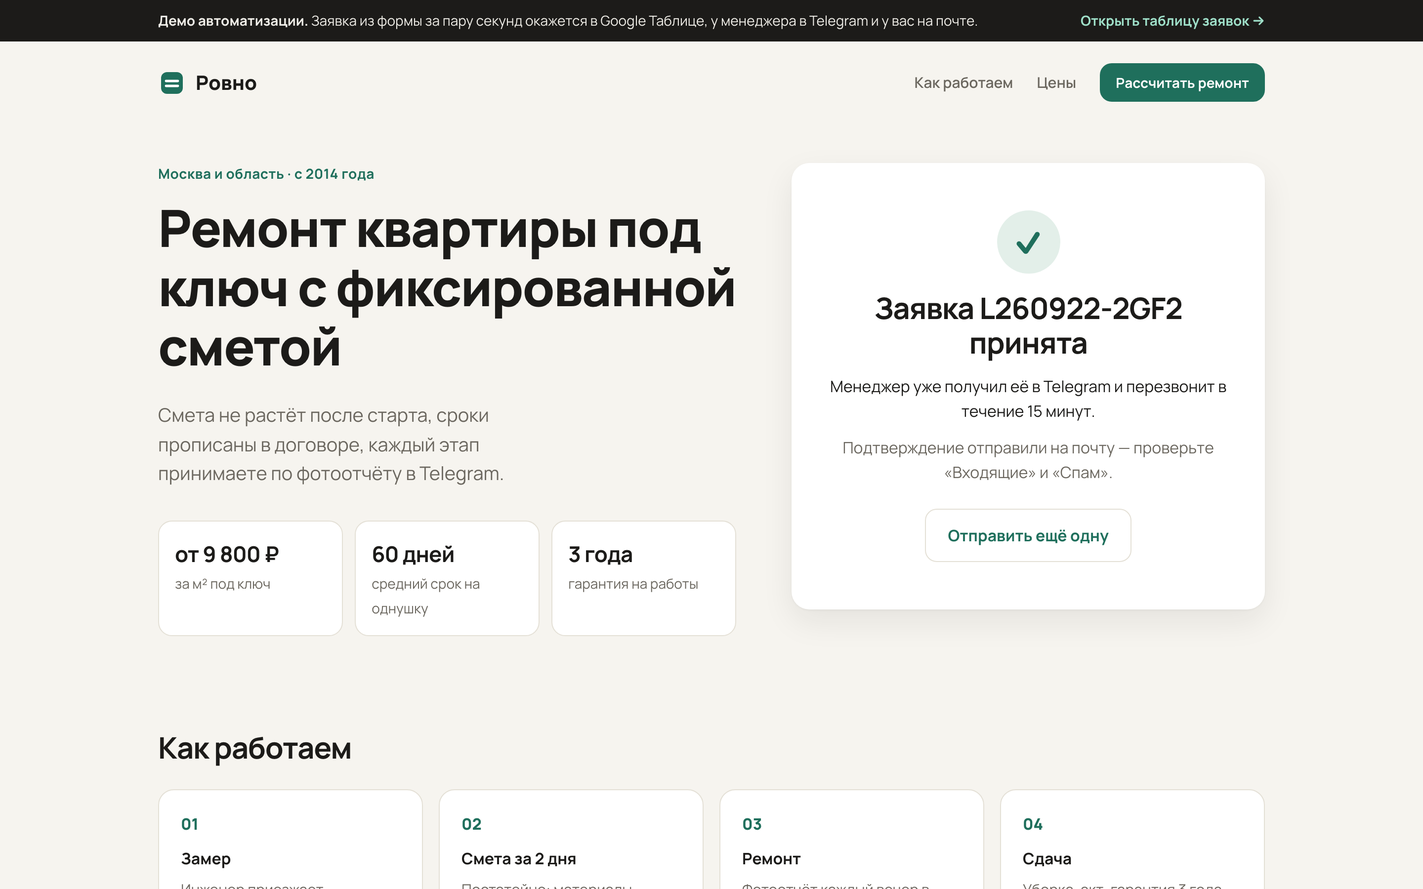
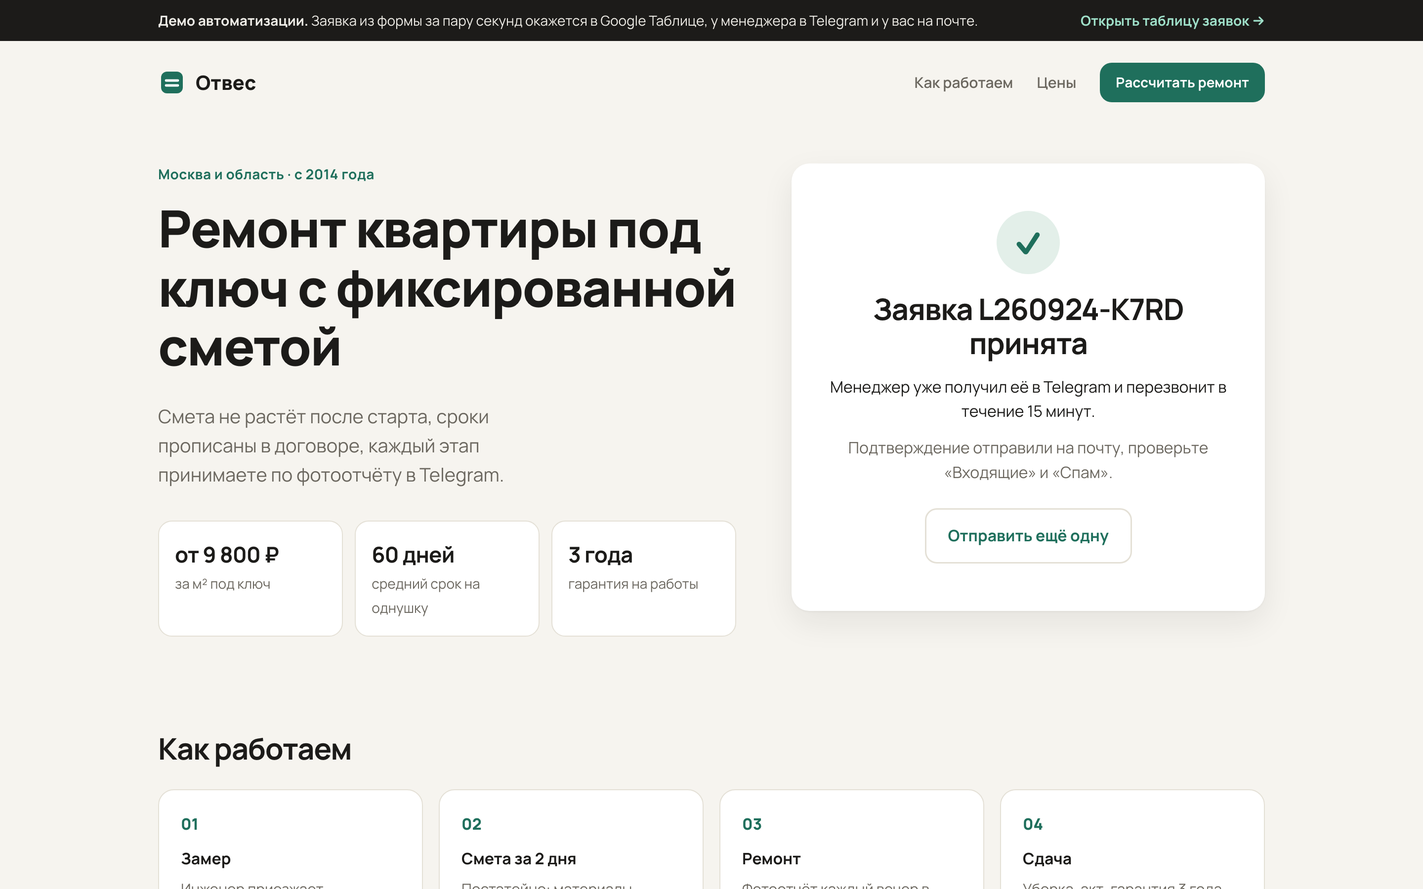
Rename demo brand to Otves, drop long dashes from visitor texts, live site config

diff --git a/n8n/validate-lead.js b/n8n/validate-lead.js
@@ -6,7 +6,7 @@ const req = $('Заявка с сайта').first().json;
 const body = req.body ?? {};
 const headers = req.headers ?? {};
 
-// Принимаем только строки и числа: массив или объект в поле «имя» — это мусор, а не имя.
+// Принимаем только строки и числа: массив или объект в поле «имя» это мусор, а не имя.
 const clean = (v, max) =>
   typeof v === 'string' || typeof v === 'number' ? String(v).replace(/\s+/g, ' ').trim().slice(0, max) : '';
 const esc = (s) => String(s).replace(/[&<>"]/g, (c) => ({ '&': '&amp;', '<': '&lt;', '>': '&gt;', '"': '&quot;' })[c]);
@@ -44,7 +44,7 @@ store.hits.push({ ip, t: now });
 
 const valid = Object.keys(errors).length === 0 && !isBot && !tooMany;
 
-// Автоответ на один адрес — не чаще раза в час, чтобы форму не использовали для рассылки спама.
+// Автоответ на один адрес не чаще раза в час, чтобы форму не использовали для рассылки спама.
 store.mailed = Object.fromEntries(Object.entries(store.mailed ?? {}).filter(([, t]) => now - t < 3600 * 1000));
 const sendEmail = valid && email !== '' && !store.mailed[email];
 if (sendEmail) store.mailed[email] = now;
@@ -52,7 +52,7 @@ if (sendEmail) store.mailed[email] = now;
 const created = DateTime.now().setZone(cfg.timezone || 'Europe/Moscow');
 const id = 'L' + created.toFormat('yyMMdd') + '-' + Math.random().toString(36).slice(2, 6).toUpperCase();
 
-// В демо-режиме таблица публичная, поэтому телефон и почту в ней маскируем. В Telegram — полные данные.
+// В демо-режиме таблица публичная, поэтому телефон и почту в ней маскируем. В Telegram уходят полные данные.
 const maskPhone = (p) => p.replace(/^(\+\d)(\d{3})\d{3}\d{2}(\d{2})$/, '$1 $2 ***-**-$3');
 const maskEmail = (e) => e.replace(/^(.{2})[^@]*(@.*)$/, '$1***$2');
 
@@ -60,7 +60,7 @@ const lines = [
   `🆕 <b>Заявка ${id}</b>`,
   `👤 ${esc(name)}`,
   `📞 ${phone}`,
-  `✉ ${email ? esc(email) : '—'}`,
+  `✉ ${email ? esc(email) : 'не указан'}`,
   `🛠 ${esc(service)}`,
   comment ? `💬 ${esc(comment)}` : null,
   `🔗 ${esc(source)}`,
@@ -70,8 +70,8 @@ const emailHtml = `
 <div style="font-family:Arial,sans-serif;font-size:15px;line-height:1.5;color:#1d1d1f;max-width:520px">
   <p>Здравствуйте, ${esc(name)}!</p>
   <p>Мы получили вашу заявку <b>${id}</b> на «${esc(service)}».
-     Менеджер перезвонит на номер ${phone} в течение 15 минут в рабочее время (пн–сб, 9:00–20:00).</p>
-  <p>Если удобнее переписка — просто ответьте на это письмо.</p>
+     Менеджер перезвонит на номер ${phone} в течение 15 минут в рабочее время (пн-сб, 9:00-20:00).</p>
+  <p>Если удобнее переписка, просто ответьте на это письмо.</p>
   <p style="color:#6e6e73">${esc(cfg.businessName)}</p>
 </div>`;
 
@@ -95,7 +95,7 @@ return [{
       'Статус': 'Новая',
     },
     telegramText: lines.join('\n'),
-    emailSubject: `Заявка ${id} получена — ${cfg.businessName}`,
+    emailSubject: `${cfg.businessName}: заявка ${id} получена`,
     emailHtml,
   },
 }];

diff --git a/site/index.html b/site/index.html
@@ -3,7 +3,7 @@
 <head>
   <meta charset="utf-8">
   <meta name="viewport" content="width=device-width, initial-scale=1">
-  <title>Ровно — ремонт квартир под ключ</title>
+  <title>Отвес · ремонт квартир под ключ</title>
   <meta name="description" content="Демо автоматизации заявок: форма → Google Таблица → Telegram → письмо клиенту.">
   <link rel="preconnect" href="https://fonts.googleapis.com">
   <link rel="preconnect" href="https://fonts.gstatic.com" crossorigin>
@@ -20,9 +20,9 @@
   </div>
 
   <header class="wrap header">
-    <a class="logo" href="#" aria-label="Ровно">
+    <a class="logo" href="#" aria-label="Отвес">
       <svg width="28" height="28" viewBox="0 0 28 28" aria-hidden="true"><rect x="3" y="3" width="22" height="22" rx="6" fill="currentColor"/><path d="M8 17h12M8 12h12" stroke="#fff" stroke-width="2.4" stroke-linecap="round"/></svg>
-      Ровно
+      Отвес
     </a>
     <nav class="nav">
       <a href="#how">Как работаем</a>
@@ -61,7 +61,7 @@
         </label>
 
         <label class="field">
-          <span>Email <em>— пришлём подтверждение</em></span>
+          <span>Email <em>(пришлём подтверждение)</em></span>
           <input name="email" type="email" autocomplete="email" maxlength="120" placeholder="you@example.com">
           <small class="error" data-for="email"></small>
         </label>
@@ -102,7 +102,7 @@
         <div class="success__icon" aria-hidden="true">✓</div>
         <h2>Заявка <span id="lead-id"></span> принята</h2>
         <p>Менеджер уже получил её в Telegram и перезвонит в течение 15 минут.</p>
-        <p class="muted" id="success-email" hidden>Подтверждение отправили на почту — проверьте «Входящие» и «Спам».</p>
+        <p class="muted" id="success-email" hidden>Подтверждение отправили на почту, проверьте «Входящие» и «Спам».</p>
         <button class="btn btn--ghost" type="button" id="again">Отправить ещё одну</button>
       </div>
     </section>
@@ -128,7 +128,7 @@
   </main>
 
   <footer class="wrap footer">
-    <span>© Ровно. Демо-сайт: компания вымышленная, заявки уходят в тестовую таблицу.</span>
+    <span>© Отвес. Демо-сайт: компания вымышленная, заявки уходят в тестовую таблицу.</span>
     <span>n8n · Google Sheets · Telegram Bot API · SMTP</span>
   </footer>
 

diff --git a/site/config.js b/site/config.js
@@ -1,9 +1,9 @@
 // Единственное, что нужно поменять после деплоя n8n.
 window.LEAD_CONFIG = {
   // Production URL вебхука из ноды «Заявка с сайта» (кнопка Webhook URLs → Production)
-  webhookUrl: 'https://n8n.example.com/webhook/lead',
-  // Ссылка на таблицу с доступом «Читатель» — показывается в демо-плашке. Пусто — плашка без ссылки.
-  sheetUrl: '',
+  webhookUrl: 'https://4-165-99-217.sslip.io/webhook/lead',
+  // Ссылка на таблицу с доступом «Читатель», показывается в демо-плашке. Пусто: плашка без ссылки.
+  sheetUrl: 'https://docs.google.com/spreadsheets/d/1bT-UKz4PPYD5rfl6dEeHaZmWrBt4tVGJiNqKQlLW1kk/edit?usp=sharing',
   // Куда звонить, если отправка не удалась
   fallbackPhone: '+7 900 000-00-00',
 };

diff --git a/site/app.js b/site/app.js
@@ -94,7 +94,7 @@
       showErrors({
         form: err.name === 'AbortError'
           ? `Сервер долго не отвечает. Попробуйте ещё раз или позвоните: ${cfg.fallbackPhone}`
-          : `Не получилось отправить — проверьте интернет или позвоните: ${cfg.fallbackPhone}`,
+          : `Не получилось отправить. Проверьте интернет или позвоните: ${cfg.fallbackPhone}`,
       });
     } finally {
       clearTimeout(timer);

diff --git a/BREAK_IT.md b/BREAK_IT.md
@@ -1,26 +1,26 @@
 # Как сломать связку и что при этом будет
 
 Все сценарии прогнаны на n8n 2.40.5. Telegram Bot API и SMTP подменялись локальными заглушками,
-Google отвечал настоящей ошибкой авторизации. Тестовые запросы — `scripts/test-lead.sh`.
+Google отвечал настоящей ошибкой авторизации. Тестовые запросы: `scripts/test-lead.sh`.
 Где смотреть, что произошло: n8n → **Executions**. Там видно каждый запуск, данные на входе
 и выходе каждой ноды и текст ошибки.
 
 | # | Что ломаем | Что происходит | Проверено |
 |---|---|---|---|
-| 1 | **Google Таблица недоступна** (неверный доступ, таблицу удалили, Google лежит) | Нода Sheets не валит workflow (`On Error → Continue`). Сайт получает `200 {ok, id}`, менеджер — заявку в Telegram с шапкой «⚠ Не записалась в таблицу — перенесите вручную». Заявка не теряется | ✅ настоящий `invalid_grant` от Google |
+| 1 | **Google Таблица недоступна** (неверный доступ, таблицу удалили, Google лежит) | Нода Sheets не валит workflow (`On Error → Continue`). Сайт получает `200 {ok, id}`, менеджер получает заявку в Telegram с шапкой «⚠ Не записалась в таблицу, перенесите вручную». Заявка не теряется | ✅ настоящий `invalid_grant` от Google |
 | 2 | **SMTP не отвечает** (сменили пароль, порт закрыт) | 3 попытки с паузой 3 с, потом менеджеру приходит «⚠ Автоответ по заявке … не ушёл на …» с текстом ошибки | ✅ `ECONNREFUSED` |
 | 3 | **Telegram не отвечает** | 3 попытки с паузой 3 с. Если связь вернулась за это время, сообщение доходит. Если нет, запуск падает и срабатывает error-workflow: «🔥 Сбой связки…, нода, ошибка, ссылка на запуск». Заявка к этому моменту уже в таблице | ✅ оба варианта |
 | 4 | **Error-workflow молчит** | В n8n 2.x error-workflow должен быть **опубликован** (Publish), иначе в логе `Workflow … is not active and cannot be executed` | ✅ нашлось при тестах |
 | 5 | **Кривые данные** (имя из 1 буквы, телефон `123`, email без домена, нет согласия) | `422` с ошибками по полям: `{"errors":{"phone":"Проверьте номер телефона",…}}`. Форма подсвечивает поля | ✅ |
 | 6 | **Мусор вместо строк** (`"name": [1,2,{…}]`, пустое тело, не JSON) | Нода проверки принимает только строки и числа, остальное считает пустым. Ответ `422`, ничего не падает | ✅ |
 | 7 | **Бот заполнил скрытое поле** | Фальшивый `200 {ok:true}`: бот думает, что всё прошло. В таблицу и Telegram ничего не попадает | ✅ |
-| 8 | **Флуд с одного IP** | После 5 заявок за 10 минут — `429`, форма показывает «Слишком много заявок подряд» | ✅ |
-| 9 | **Одна и та же почта много раз** | Автоответ — не чаще раза в час на адрес. Заявки при этом принимаются | ✅ при последовательных запросах |
-| 10 | **n8n выключен / сервер упал** | Форма показывает «Не получилось отправить — позвоните: …» с телефоном из `config.js`. `restart: unless-stopped` поднимет контейнеры после перезагрузки VPS | ✅ ошибка сети в браузере |
+| 8 | **Флуд с одного IP** | После 5 заявок за 10 минут ответ `429`, форма показывает «Слишком много заявок подряд» | ✅ |
+| 9 | **Одна и та же почта много раз** | Автоответ не чаще раза в час на адрес. Заявки при этом принимаются | ✅ при последовательных запросах |
+| 10 | **n8n выключен / сервер упал** | Форма показывает «Не получилось отправить. Проверьте интернет или позвоните: …» с телефоном из `config.js`. `restart: unless-stopped` поднимет контейнеры после перезагрузки VPS | ✅ ошибка сети в браузере |
 | 11 | **n8n тормозит** | Через 15 секунд форма прерывает запрос и предлагает позвонить | по коду (`AbortController`) |
 | 12 | **HTML в имени** (`<b>`, `<script>`) | В Telegram и письме всё экранируется, parse error у Telegram не возникает | ✅ |
-| 13 | **Вставили test-URL вместо production** | `/webhook-test/…` работает только пока в редакторе нажато «Listen». На сайте должен быть `/webhook/lead` | — |
-| 14 | **Потерян `N8N_ENCRYPTION_KEY`** | n8n не сможет расшифровать сохранённые доступы, их придётся вводить заново. Ключ храните вне сервера | — |
+| 13 | **Вставили test-URL вместо production** | `/webhook-test/…` работает только пока в редакторе нажато «Listen». На сайте должен быть `/webhook/lead` | не проверялось |
+| 14 | **Потерян `N8N_ENCRYPTION_KEY`** | n8n не сможет расшифровать сохранённые доступы, их придётся вводить заново. Ключ храните вне сервера | не проверялось |
 
 ## Честные ограничения
 

diff --git a/README.md b/README.md
@@ -2,7 +2,7 @@
 
 **RU** · [EN below](#english)
 
-> Живое демо: [сайт с формой](https://your-demo.vercel.app) · [таблица заявок (только просмотр)](https://docs.google.com/spreadsheets/d/…) · видео 40 сек: [ссылка]
+> Живое демо: [сайт с формой](https://otves-remont.vercel.app) · [таблица заявок (только просмотр)](https://docs.google.com/spreadsheets/d/1bT-UKz4PPYD5rfl6dEeHaZmWrBt4tVGJiNqKQlLW1kk/edit?usp=sharing) · видео 40 сек: [ссылка]
 
 | Форма на сайте | Через секунду: заявка принята |
 |---|---|
@@ -29,7 +29,7 @@
 
 ## Решение
 
-Клиент нажимает «Отправить», и за 1–2 секунды без участия человека:
+Клиент нажимает «Отправить», и за пару секунд без участия человека:
 
 1. заявка проверяется: телефон приводится к `+7…`, пустые и кривые поля отклоняются с понятной ошибкой;
 2. строка появляется в Google Таблице (мини-CRM со статусом);
@@ -54,7 +54,7 @@ flowchart LR
   «⚠ не записалась в таблицу», сайт получает «принято»;
 - почта не отправилась → 3 попытки, потом отдельный алерт менеджеру;
 - Telegram не отвечает → 3 попытки, потом срабатывает error-workflow;
-- боты отсекаются скрытым полем (им отдаётся фальшивый 200), флуд — лимитом 5 заявок за 10 минут с одного IP;
+- боты отсекаются скрытым полем (им отдаётся фальшивый 200), флуд ограничен 5 заявками за 10 минут с одного IP;
 - автоответ уходит на один адрес не чаще раза в час, поэтому форму не получится использовать для спама;
 - в демо-режиме телефоны и почты в публичной таблице маскируются, менеджеру приходят полные данные.
 
@@ -62,10 +62,10 @@ flowchart LR
 
 n8n 2.40 (self-hosted, Docker) · Google Sheets API (сервисный аккаунт) · Telegram Bot API · SMTP ·
 Caddy (HTTPS) · лендинг на чистом HTML/CSS/JS без сборки.
-Workflow — 12 нод, логика проверки — 100 строк JS ([`n8n/validate-lead.js`](n8n/validate-lead.js)).
+Workflow из 12 нод, логика проверки занимает 100 строк JS ([`n8n/validate-lead.js`](n8n/validate-lead.js)).
 
 ```
-n8n/workflow.json        основной workflow — импорт в n8n
+n8n/workflow.json        основной workflow, импорт в n8n
 n8n/error-workflow.json  алерт в Telegram при любом сбое
 n8n/validate-lead.js     код ноды «Проверка заявки» (тот же, что внутри workflow)
 n8n/sheet-template.csv   шапка таблицы
@@ -84,7 +84,7 @@ git clone https://github.com/nondeadted-kwork/lead-automation-n8n.git && cd lead
 cp .env.example .env && nano .env      # домен и N8N_ENCRYPTION_KEY (openssl rand -hex 32)
 docker compose up -d
 ```
-Откройте `https://<домен>`, создайте аккаунт владельца. Нет домена — используйте `IP-через-дефисы.sslip.io`.
+Откройте `https://<домен>`, создайте аккаунт владельца. Нет домена? Используйте `IP-через-дефисы.sslip.io`.
 
 **2. Google Таблица**
 1. [console.cloud.google.com](https://console.cloud.google.com) → новый проект → включить **Google Sheets API**.
@@ -126,7 +126,7 @@ Gmail: `smtp.gmail.com`, 465, пароль приложения.
 <a name="english"></a>
 ## English
 
-**Website form → validation → Google Sheets → Telegram alert to the manager + confirmation email to the client, in 1–2 seconds, built in n8n.**
+**Website form → validation → Google Sheets → Telegram alert to the manager + confirmation email to the client, in a couple of seconds, built in n8n.**
 
 - Validates and normalizes input (phone → E.164), returns per-field errors (HTTP 422) the form shows inline.
 - Resilient: if Google Sheets is down, the lead still reaches the manager in Telegram flagged ⚠;
